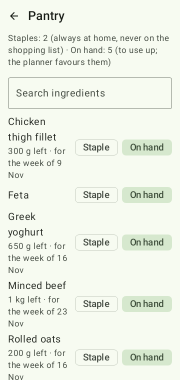
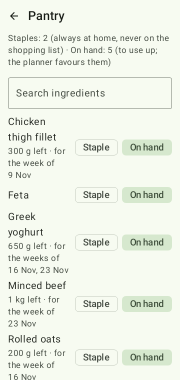
Leftovers of #127: plain load errors, a backup note, every week of a pantry stock (#161)
* A screen's load error says it in plain words, the exception's text behind Details (Part of #127)

The Progress tab and every other screen with a load error showed the exception's own text (unexpected end of stream on http://...). ErrorMessage now takes the failure and, for a technical one, shows the plain sentence the shopping notices use, with the text behind Details.

* deploy.md: back up the database before the nightly update, and how to go back (Part of #127)

Migrations run atomically, so a backup is for a migration that succeeds and moves data wrongly, a bad release or a failing disk. A live WAL file is copied with sqlite3 .backup, not cp; going back needs the old image too.

* The pantry names each week of an ingredient's stock, not only the earliest (Part of #127)

An ingredient stocked up in one week and bought ahead for another showed one week next to the sum of both. Pantry.onHandWeeks (new, optional) lists every week; onHandFrom stays for installed apps.

---------

diff --git a/composeApp/src/commonMain/kotlin/dev/tobins/mealplanner/app/RecipeScreens.kt b/composeApp/src/commonMain/kotlin/dev/tobins/mealplanner/app/RecipeScreens.kt
@@ -207,7 +207,7 @@ fun RecipeListScreen(api: ApiClient, onOpen: (Long) -> Unit, onOpenMapping: () -
             }
             when (val current = state) {
                 Load.Loading -> LoadingState()
-                is Load.Failed -> ErrorMessage(t(Msg.RECIPES_LOAD_FAILED), current.message) { reload++ }
+                is Load.Failed -> ErrorMessage(t(Msg.RECIPES_LOAD_FAILED), current) { reload++ }
                 is Load.Ready -> {
                     val shown = current.value.filter { recipe ->
                         (!mealsOnly || recipe.kind == RecipeKind.MEAL) &&
@@ -350,7 +350,7 @@ fun RecipeDetailScreen(api: ApiClient, recipeId: Long, nutritionSource: String?,
         when (val current = state) {
             Load.Loading -> LoadingState(Modifier.padding(padding))
             is Load.Failed -> Box(Modifier.padding(padding)) {
-                ErrorMessage(t(Msg.RECIPE_LOAD_FAILED), current.message) { reload++ }
+                ErrorMessage(t(Msg.RECIPE_LOAD_FAILED), current) { reload++ }
             }
             is Load.Ready -> {
                 val recipe = current.value
@@ -572,8 +572,9 @@ private fun CostCard(cost: RecipeCost) {
 }
 
 @Composable
-internal fun ErrorMessage(title: String, detail: String, onRetry: () -> Unit) {
+internal fun ErrorMessage(title: String, failed: Load.Failed, onRetry: () -> Unit) {
     val t = LocalStrings.current
+    val detail = failed.message
     val openServer = LocalOpenServerSettings.current
     Column(
         Modifier.fillMaxSize().padding(Spacing.Message),
@@ -581,8 +582,12 @@ internal fun ErrorMessage(title: String, detail: String, onRetry: () -> Unit) {
         horizontalAlignment = Alignment.CenterHorizontally,
     ) {
         Text(title, style = MaterialTheme.typography.titleMedium)
-        // A long technical message gets a one-line summary and a "Details" button.
-        if (detail.length <= 100 && '\n' !in detail) {
+        // An exception's own text ("unexpected end of stream on http://...") is no sentence for the user:
+        // a plain one says what happened and the text stays behind "Details".
+        if (failed.technical) {
+            val plain = plainReason(failed)
+            ErrorBanner(summary = plain.replaceFirstChar { it.uppercase() } + ".", details = detail, modifier = Modifier.fillMaxWidth())
+        } else if (detail.length <= 100 && '\n' !in detail) {
             Text(detail, style = MaterialTheme.typography.bodyMedium, color = MaterialTheme.colorScheme.onSurfaceVariant)
         } else {
             ErrorBanner(summary = detail.lineSequence().first().take(100) + "…", details = detail, modifier = Modifier.fillMaxWidth())

diff --git a/composeApp/src/commonMain/kotlin/dev/tobins/mealplanner/app/PantryScreen.kt b/composeApp/src/commonMain/kotlin/dev/tobins/mealplanner/app/PantryScreen.kt
@@ -35,12 +35,20 @@ import kotlinx.coroutines.launch
 /**
  * What the pantry says under an on-hand ingredient: `280 g left · for the week of 23 Nov`, from the
  * amount left and the week the stock was bought for, each only when known (an amount that is not
- * known is left out, never shown as none). Null for what is not on hand and when neither is known.
+ * known is left out, never shown as none). Stock of several weeks names each: `for the weeks of
+ * 16 Nov, 23 Nov`. A server that does not give the weeks gives the first one only. Null for what is not on hand and when neither is known.
  */
 internal fun pantryNote(pantry: Pantry, id: Long, strings: Strings): String? {
     if (pantry.onHand.none { it.id == id }) return null
     val left = pantry.onHandGrams[id]?.let { strings(Msg.PANTRY_LEFT, weightText(it, strings.locale)) }
-    val week = pantry.onHandFrom[id]?.let { strings(Msg.PANTRY_FROM_WEEK, dayMonthLabel(it, strings.locale)) }
+    // A date never breaks across lines: its day and month are joined by a no-break space.
+    fun date(iso: String) = dayMonthLabel(iso, strings.locale).replace(' ', '\u00A0')
+    val weeks = pantry.onHandWeeks[id].orEmpty().ifEmpty { listOfNotNull(pantry.onHandFrom[id]) }
+    val week = when (weeks.size) {
+        0 -> null
+        1 -> strings(Msg.PANTRY_FROM_WEEK, date(weeks.single()))
+        else -> strings(Msg.PANTRY_FROM_WEEKS, weeks.joinToString(", ") { date(it) })
+    }
     return listOfNotNull(left, week).joinToString(" · ").ifEmpty { null }
 }
 
@@ -68,7 +76,7 @@ fun PantryScreen(api: ApiClient, onBack: () -> Unit) {
         when (val current = state) {
             Load.Loading -> LoadingState(Modifier.padding(padding))
             is Load.Failed -> Column(Modifier.padding(padding)) {
-                ErrorMessage(t(Msg.PANTRY_LOAD_FAILED), current.message) { reload++ }
+                ErrorMessage(t(Msg.PANTRY_LOAD_FAILED), current) { reload++ }
             }
             is Load.Ready -> {
                 val (ingredients, pantry) = current.value

diff --git a/composeApp/src/commonTest/kotlin/dev/tobins/mealplanner/app/PantryNoteTest.kt b/composeApp/src/commonTest/kotlin/dev/tobins/mealplanner/app/PantryNoteTest.kt
@@ -11,21 +11,28 @@ class PantryNoteTest {
 
     private val pantry = Pantry(
         staples = emptyList(),
-        onHand = listOf(ingredient(1), ingredient(2), ingredient(3), ingredient(4)),
+        onHand = listOf(ingredient(1), ingredient(2), ingredient(3), ingredient(4), ingredient(6)),
         onHandGrams = mapOf(1L to 280.0, 2L to 650.0),
-        onHandFrom = mapOf(1L to "2026-11-23", 3L to "2026-11-16"),
+        onHandFrom = mapOf(1L to "2026-11-23", 3L to "2026-11-16", 6L to "2026-11-16"),
+        onHandWeeks = mapOf(6L to listOf("2026-11-16", "2026-11-23")),
     )
 
     @Test
     fun aStockSaysWhatIsLeftAndWhichWeekItWasBoughtFor() {
-        assertEquals("280 g left · for the week of 23 Nov", pantryNote(pantry, 1, Strings.English))
-        assertEquals("nog 280 g · voor de week van 23 nov", pantryNote(pantry, 1, Strings.Dutch))
+        assertEquals("280 g left · for the week of 23\u00A0Nov", pantryNote(pantry, 1, Strings.English))
+        assertEquals("nog 280 g · voor de week van 23\u00A0nov", pantryNote(pantry, 1, Strings.Dutch))
+    }
+
+    @Test
+    fun aStockOfSeveralWeeksNamesEachOfThem() {
+        assertEquals("for the weeks of 16\u00A0Nov, 23\u00A0Nov", pantryNote(pantry, 6, Strings.English))
+        assertEquals("voor de weken van 16\u00A0nov, 23\u00A0nov", pantryNote(pantry, 6, Strings.Dutch))
     }
 
     @Test
     fun eachPartIsLeftOutWhenNotKnownAndNothingIsSaidOfWhatIsNotOnHandOrKnownAtAll() {
         assertEquals("650 g left", pantryNote(pantry, 2, Strings.English))
-        assertEquals("for the week of 16 Nov", pantryNote(pantry, 3, Strings.English), "an amount nobody knows is not shown as none")
+        assertEquals("for the week of 16\u00A0Nov", pantryNote(pantry, 3, Strings.English), "an amount nobody knows is not shown as none")
         assertNull(pantryNote(pantry, 4, Strings.English), "put on hand by hand: nothing known")
         assertNull(pantryNote(pantry, 5, Strings.English), "not on hand")
     }

diff --git a/server/src/main/kotlin/dev/tobins/mealplanner/server/IngredientRepository.kt b/server/src/main/kotlin/dev/tobins/mealplanner/server/IngredientRepository.kt
@@ -103,19 +103,21 @@ class IngredientRepository(private val db: Database, private val foods: FoodRepo
      * next week, as that is at home already.
      *
      * The stock is kept per tick (issue 116), so an ingredient can have entries of several weeks, while
-     * [Pantry.onHandFrom] has one week per ingredient, as apps read it: the earliest of them. That is the
+     * [Pantry.onHandFrom] has one week per ingredient, as apps before it read it: the earliest of them. That is the
      * week from which meals eat it, the oldest entry first, and an entry stays only while something is
-     * left of it. An ingredient on hand by hand only counts at once and has none.
+     * left of it. [Pantry.onHandWeeks] has all of them. An ingredient on hand by hand only counts at once and has none.
      */
     fun pantry(): Pantry {
         val all = list()
         val byId = all.associateBy { it.id }
         val stock = pantry.selectStockOfAccount(userId).executeAsList()
+        val weeks = stock.groupBy({ it.ingredientId }, { it.fromWeek }).mapValues { (_, weeks) -> weeks.distinct().sorted() }
         return Pantry(
             staples = all.filter { it.isStaple },
             onHand = pantry.selectOnHand(userId).executeAsList().mapNotNull(byId::get),
             onHandGrams = gramsIn(stock).mapNotNull { (id, grams) -> grams?.let { id to it } }.toMap(),
-            onHandFrom = stock.groupBy { it.ingredientId }.mapValues { (_, entries) -> entries.minOf { it.fromWeek } },
+            onHandFrom = weeks.mapValues { (_, weeks) -> weeks.first() },
+            onHandWeeks = weeks,
         )
     }
 

diff --git a/server/src/test/kotlin/dev/tobins/mealplanner/server/BuyAheadTest.kt b/server/src/test/kotlin/dev/tobins/mealplanner/server/BuyAheadTest.kt
@@ -660,19 +660,23 @@ class BuyAheadTest {
         // One entry: bought ahead on this week's list, for next week.
         http.tick(http.list().buyAhead.single().key)
         assertEquals(mapOf(chicken.id to nextWeek), pantry().onHandFrom)
+        assertEquals(mapOf(chicken.id to listOf(nextWeek)), pantry().onHandWeeks)
 
         // Two entries in neighbouring weeks (stocked up this week as well): one week per ingredient, as apps
         // read it, the earliest, from which meals eat it; the grams are both added up.
         http.tick("stock:i${chicken.id}", grams = 300.0)
         assertEquals(mapOf(chicken.id to week), pantry().onHandFrom)
         assertEquals(mapOf(chicken.id to 3900.0), pantry().onHandGrams)
+        assertEquals(mapOf(chicken.id to listOf(week, nextWeek)), pantry().onHandWeeks, "the pantry says both weeks, earliest first")
         http.tick("stock:i${chicken.id}", checked = false)
         assertEquals(mapOf(chicken.id to nextWeek), pantry().onHandFrom, "that entry gone, the other's week")
+        assertEquals(mapOf(chicken.id to listOf(nextWeek)), pantry().onHandWeeks)
 
         // On hand by hand only: it counts at once, and has no week.
         http.put("/api/pantry/on-hand/${lettuce.id}")
         assertTrue("Lettuce" in http.onHand())
         assertEquals(setOf(chicken.id), pantry().onHandFrom.keys)
+        assertEquals(setOf(chicken.id), pantry().onHandWeeks.keys)
     }
 
     @Test

diff --git a/composeApp/src/commonMain/kotlin/dev/tobins/mealplanner/app/ShoppingSession.kt b/composeApp/src/commonMain/kotlin/dev/tobins/mealplanner/app/ShoppingSession.kt
@@ -81,16 +81,16 @@ internal class Notice(val msg: Msg, val detail: String, val technical: String? =
 
 /** The notice that [msg] failed because of [failed]: a plain sentence, and the exception's text behind "Details". */
 internal fun noticeFor(msg: Msg, failed: Load.Failed): Notice =
-    if (failed.technical) {
-        val plain = when {
-            failed.unreadable -> Msg.UNREADABLE_ANSWER
-            failed.lostConnection -> Msg.NO_CONNECTION
-            else -> Msg.WENT_WRONG
-        }
-        Notice(msg, Strings.current(plain), failed.message)
-    } else {
-        Notice(msg, failed.message)
-    }
+    if (failed.technical) Notice(msg, plainReason(failed), failed.message) else Notice(msg, failed.message)
+
+/** What a technical failure means in a few plain words, such as "the server could not be reached". */
+internal fun plainReason(failed: Load.Failed): String = Strings.current(
+    when {
+        failed.unreadable -> Msg.UNREADABLE_ANSWER
+        failed.lostConnection -> Msg.NO_CONNECTION
+        else -> Msg.WENT_WRONG
+    },
+)
 
 /**
  * The Shopping screen's state, owned by the app for as long as one account is logged in, so that

diff --git a/composeApp/src/androidHostTest/kotlin/dev/tobins/mealplanner/app/FakeBackend.kt b/composeApp/src/androidHostTest/kotlin/dev/tobins/mealplanner/app/FakeBackend.kt
@@ -123,13 +123,15 @@ class FakeBackend(
 
     /**
      * Feta on hand by hand, how much not known; what is left of the chicken bought ahead last week and
-     * of the yoghurt and oats stocked up; the minced beef bought ahead for next week, untouched.
+     * of the yoghurt and oats stocked up; the minced beef bought ahead for next week, untouched. The
+     * yoghurt was stocked up in two weeks.
      */
     private val pantry = Pantry(
         staples = ingredients.filter { it.isStaple },
         onHand = ingredients.filter { it.id in setOf(1L, 2L, 3L, 4L, 6L) },
         onHandGrams = mapOf(1L to 300.0, 3L to 650.0, 4L to 1000.0, 6L to 200.0),
         onHandFrom = mapOf(1L to "2026-11-09", 3L to "2026-11-16", 4L to "2026-11-23", 6L to "2026-11-16"),
+        onHandWeeks = mapOf(1L to listOf("2026-11-09"), 3L to listOf("2026-11-16", "2026-11-23"), 4L to listOf("2026-11-23"), 6L to listOf("2026-11-16")),
     )
 
     private fun meal(day: Int, slot: MealSlot, id: Long, title: String, kcal: Double, protein: Double, cost: Double = 2.4) =

diff --git a/composeApp/src/androidHostTest/kotlin/dev/tobins/mealplanner/app/ScreenshotTest.kt b/composeApp/src/androidHostTest/kotlin/dev/tobins/mealplanner/app/ScreenshotTest.kt
@@ -153,6 +153,13 @@ enum class Shot(
     PRICES(heightDp = 800, content = { api, _ -> PricesScreen(api, {}) }),
     PRICES_EMPTY(emptyPrices = true, content = { api, _ -> PricesScreen(api, {}) }),
     PROGRESS(heightDp = 1800, content = { api, _ -> ProgressScreen(api, {}, {}) }),
+    // A screen's load error: the plain sentence, with the exception's own text behind "Details".
+    LOAD_FAILED(content = { _, _ ->
+        ErrorMessage(
+            LocalStrings.current(Msg.WEIGHT_LOAD_FAILED),
+            Load.Failed("unexpected end of stream on http://192.168.1.2:8080/api/weights", technical = true, lostConnection = true),
+        ) {}
+    }),
     PANTRY(heightDp = 760, content = { api, _ -> PantryScreen(api, {}) }),
     FOCUS_FILLED_BUTTON(heightDp = 200, content = { _, _ -> focusRing(0) }),
     FOCUS_OUTLINED_BUTTON(heightDp = 200, content = { _, _ -> focusRing(1) }),

diff --git a/composeApp/src/commonTest/kotlin/dev/tobins/mealplanner/app/PlainReasonTest.kt b/composeApp/src/commonTest/kotlin/dev/tobins/mealplanner/app/PlainReasonTest.kt
@@ -1,0 +1,16 @@
+package dev.tobins.mealplanner.app
+
+import kotlin.test.Test
+import kotlin.test.assertEquals
+import kotlin.test.assertFalse
+
+class PlainReasonTest {
+    @Test
+    fun aTechnicalFailureIsToldInPlainWords() {
+        val lost = Load.Failed("unexpected end of stream on http://192.168.1.2:8080/api/weights", technical = true, lostConnection = true)
+        assertEquals("the server could not be reached", plainReason(lost))
+        assertEquals("the server's answer could not be read", plainReason(Load.Failed("Unexpected JSON token", technical = true, unreadable = true)))
+        assertEquals("something went wrong", plainReason(Load.Failed("Cannot read property of undefined", technical = true)))
+        assertFalse("http" in plainReason(lost), "the exception's text stays behind Details")
+    }
+}

diff --git a/composeApp/src/commonMain/kotlin/dev/tobins/mealplanner/app/ProfileScreen.kt b/composeApp/src/commonMain/kotlin/dev/tobins/mealplanner/app/ProfileScreen.kt
@@ -99,7 +99,7 @@ fun ProfileScreen(api: ApiClient, onBack: () -> Unit) {
         when (val current = loaded) {
             Load.Loading -> LoadingState(Modifier.padding(padding))
             is Load.Failed -> Column(Modifier.padding(padding)) {
-                ErrorMessage(t(Msg.PROFILE_LOAD_FAILED), current.message) { reload++ }
+                ErrorMessage(t(Msg.PROFILE_LOAD_FAILED), current) { reload++ }
             }
             is Load.Ready -> Column(
                 Modifier.padding(padding).fillMaxSize().verticalScroll(rememberScrollState()).padding(Spacing.ScreenEdge),

diff --git a/composeApp/src/commonMain/kotlin/dev/tobins/mealplanner/app/RecipePicker.kt b/composeApp/src/commonMain/kotlin/dev/tobins/mealplanner/app/RecipePicker.kt
@@ -60,7 +60,7 @@ fun RecipePicker(api: ApiClient, slot: MealSlot, title: String, onDismiss: () ->
         text = {
             when (val current = state) {
                 Load.Loading -> LoadingState()
-                is Load.Failed -> ErrorMessage(t(Msg.RECIPES_LOAD_FAILED), current.message) { reload++ }
+                is Load.Failed -> ErrorMessage(t(Msg.RECIPES_LOAD_FAILED), current) { reload++ }
                 is Load.Ready -> Column {
                     RecipePickerBody(current.value, slot) { recipe ->
                         scope.launch {

diff --git a/shared/src/commonMain/kotlin/dev/tobins/mealplanner/api/Ingredients.kt b/shared/src/commonMain/kotlin/dev/tobins/mealplanner/api/Ingredients.kt
@@ -154,4 +154,10 @@ data class Pantry(
      * at once and is not here. A separate map, as [onHandGrams] is.
      */
     val onHandFrom: Map<Long, String> = emptyMap(),
+    /**
+     * Every week an entry of [onHand] counts from, by ingredient id, earliest first and each once:
+     * [onHandFrom] is the first of them. For an ingredient stocked up in one week and bought ahead
+     * for another, the pantry can say both. Apps that predate it read [onHandFrom].
+     */
+    val onHandWeeks: Map<Long, List<String>> = emptyMap(),
 )
